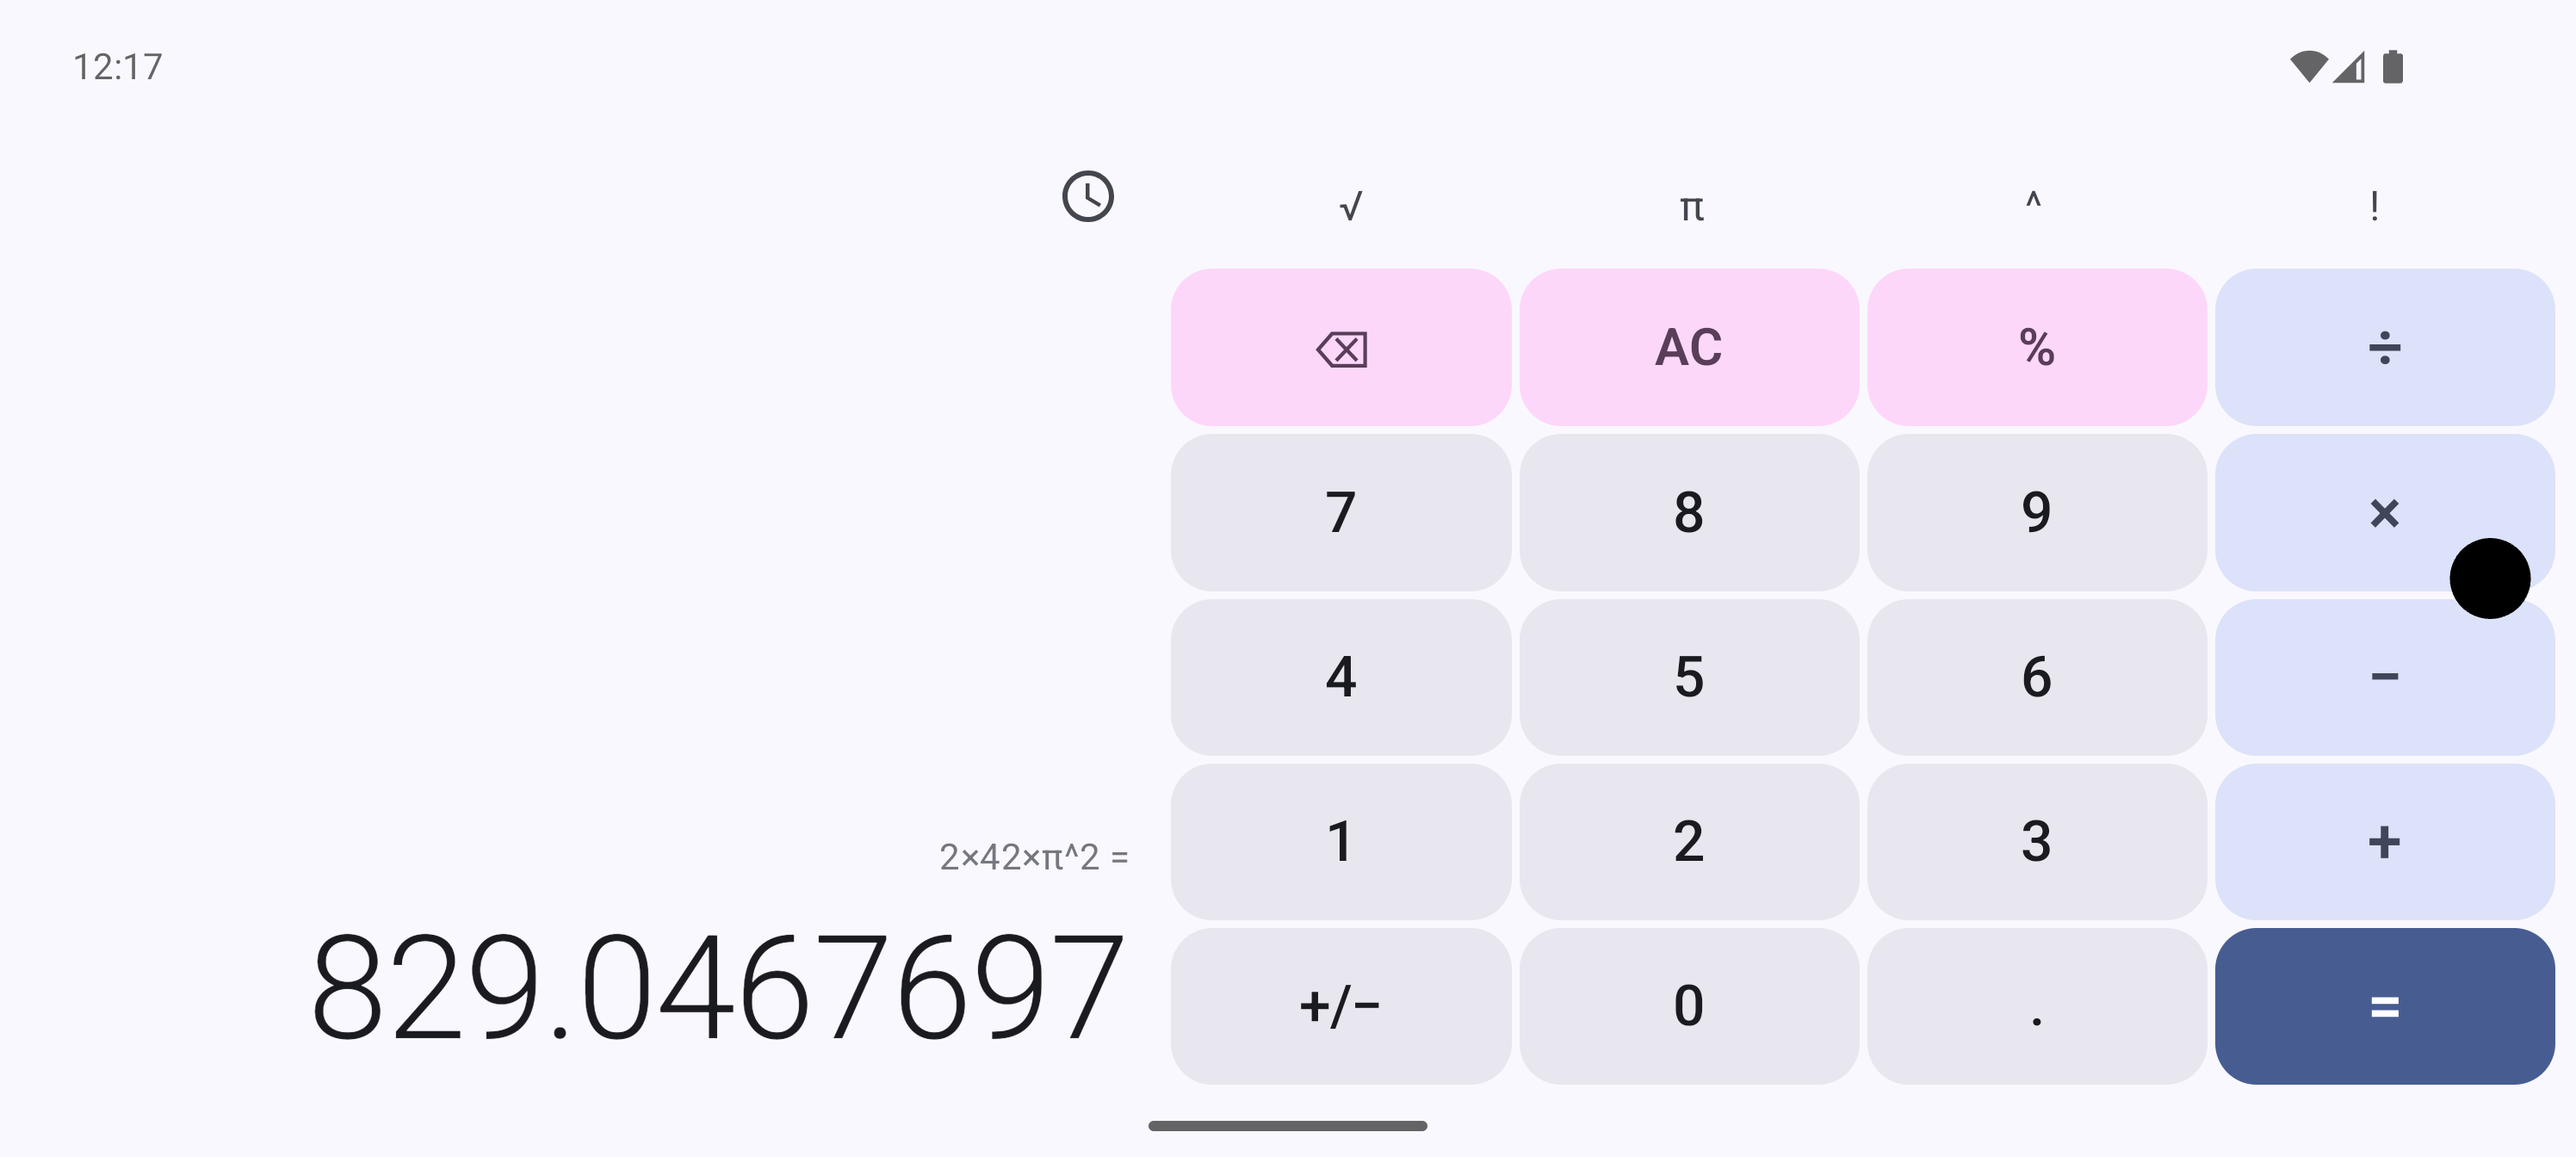
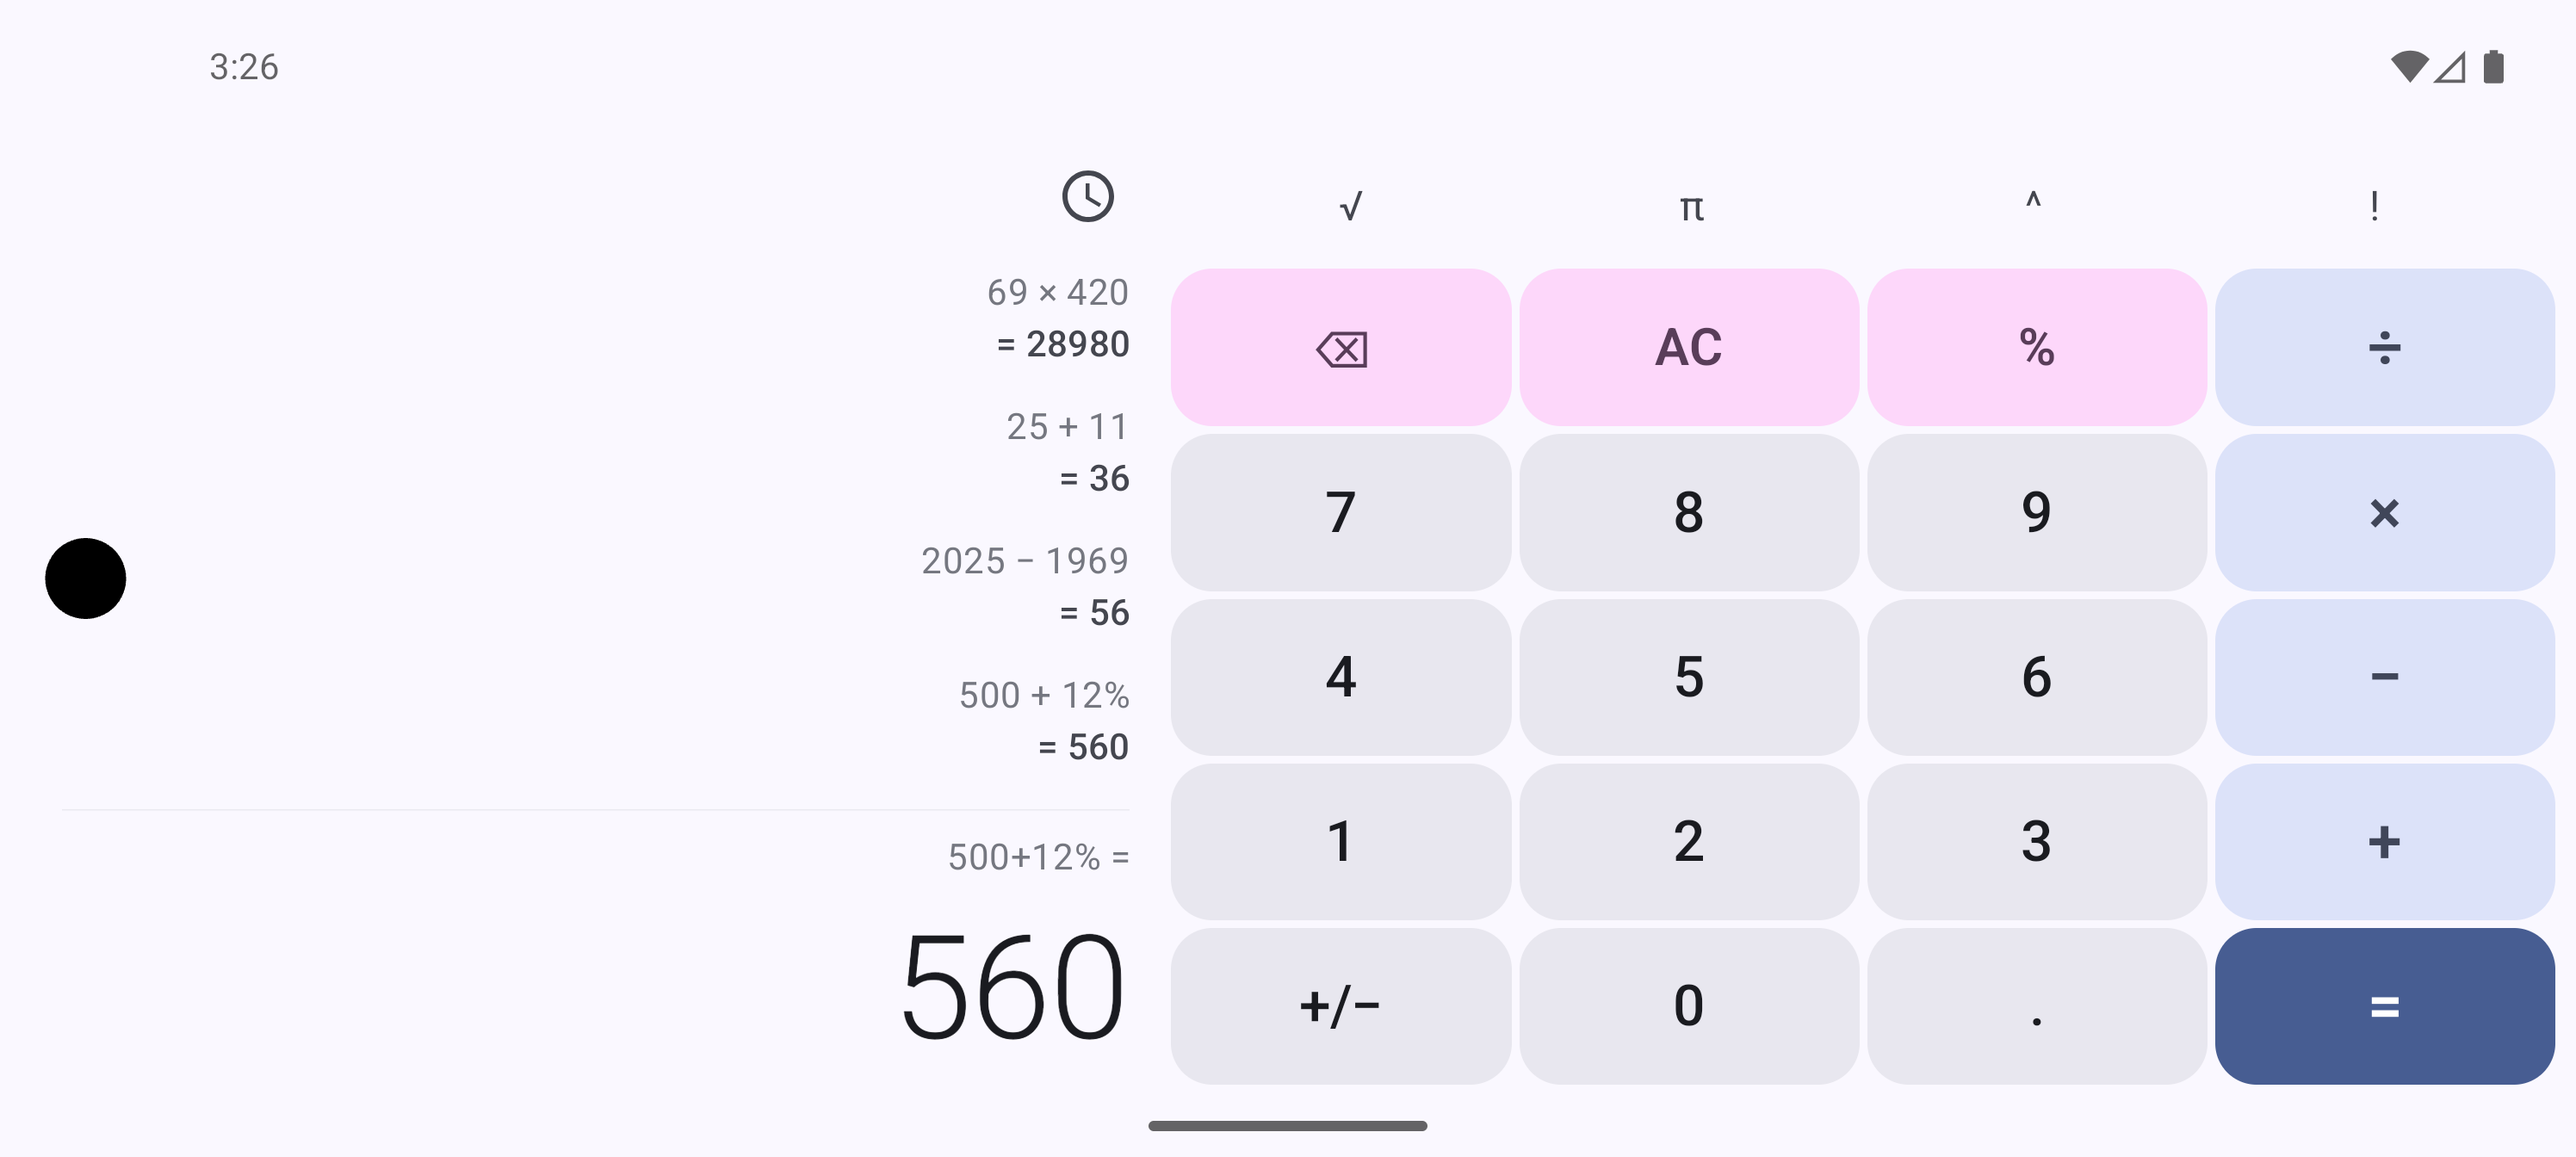
Feature/foldable inline history (#23)
* Add inline calculation history on foldable devices

Show recent calculations in the empty display area above the expression
on foldable/wide-screen devices. Entries are scrollable, tappable to
reload, and separated from the current expression by a subtle divider.

* Fix camera cutout overlap in landscape by using safeDrawingPadding

Replace systemBarsPadding with safeDrawingPadding to account for display
cutouts (punch-hole cameras) that overlap buttons in landscape mode.

* Update foldable and landscape screenshots

diff --git a/app/src/main/java/com/vagujhelyigergely/calculatorm3/CalculatorScreen.kt b/app/src/main/java/com/vagujhelyigergely/calculatorm3/CalculatorScreen.kt
@@ -9,6 +9,9 @@ import androidx.compose.foundation.interaction.collectIsPressedAsState
 import androidx.compose.foundation.layout.*
 import androidx.compose.foundation.lazy.LazyColumn
 import androidx.compose.foundation.lazy.items
+import androidx.compose.foundation.lazy.rememberLazyListState
+import androidx.compose.foundation.rememberScrollState
+import androidx.compose.foundation.verticalScroll
 import androidx.compose.foundation.shape.CircleShape
 import androidx.compose.foundation.shape.RoundedCornerShape
 import androidx.compose.foundation.gestures.detectTapGestures
@@ -144,7 +147,7 @@ private fun PortraitLayout(
     Column(
         modifier = Modifier
             .fillMaxSize()
-            .systemBarsPadding()
+            .safeDrawingPadding()
     ) {
         // Top bar with history button
         Row(
@@ -163,6 +166,10 @@ private fun PortraitLayout(
         }
 
         // Display area
+        val configuration = LocalConfiguration.current
+        val aspectRatio = configuration.screenHeightDp.toFloat() / configuration.screenWidthDp.toFloat()
+        val showInlineHistory = aspectRatio < 1.6f && viewModel.historyList.isNotEmpty()
+
         DisplaySection(
             expression = viewModel.expression,
             displayExpression = viewModel.displayExpression,
@@ -170,6 +177,8 @@ private fun PortraitLayout(
             onCursorChange = { viewModel.moveCursorTo(it) },
             result = viewModel.result,
             history = viewModel.history,
+            inlineHistoryList = if (showInlineHistory) viewModel.historyList else emptyList(),
+            onHistoryEntryClick = { entry -> viewModel.loadHistoryEntry(entry) },
             modifier = Modifier
                 .weight(1f)
                 .fillMaxWidth()
@@ -210,7 +219,7 @@ private fun LandscapeLayout(
     Row(
         modifier = Modifier
             .fillMaxSize()
-            .systemBarsPadding()
+            .safeDrawingPadding()
     ) {
         // Left side: display
         Column(
@@ -239,6 +248,8 @@ private fun LandscapeLayout(
                 onCursorChange = { viewModel.moveCursorTo(it) },
                 result = viewModel.result,
                 history = viewModel.history,
+                inlineHistoryList = if (viewModel.historyList.isNotEmpty()) viewModel.historyList else emptyList(),
+                onHistoryEntryClick = { entry -> viewModel.loadHistoryEntry(entry) },
                 modifier = Modifier
                     .weight(1f)
                     .fillMaxWidth()
@@ -349,6 +360,8 @@ fun DisplaySection(
     onCursorChange: (Int) -> Unit,
     result: String,
     history: String,
+    inlineHistoryList: List<HistoryEntry> = emptyList(),
+    onHistoryEntryClick: (HistoryEntry) -> Unit = {},
     modifier: Modifier = Modifier
 ) {
     val colorScheme = MaterialTheme.colorScheme
@@ -368,7 +381,55 @@ fun DisplaySection(
             verticalArrangement = Arrangement.Bottom,
             horizontalAlignment = Alignment.End
         ) {
-            // History
+            // Inline history for foldable devices with extra vertical space
+            if (inlineHistoryList.isNotEmpty()) {
+                val scrollState = rememberScrollState()
+                // Auto-scroll to bottom when history changes
+                LaunchedEffect(inlineHistoryList.size) {
+                    scrollState.animateScrollTo(scrollState.maxValue)
+                }
+                Column(
+                    modifier = Modifier
+                        .weight(1f, fill = false)
+                        .fillMaxWidth()
+                        .verticalScroll(scrollState),
+                    horizontalAlignment = Alignment.End
+                ) {
+                    inlineHistoryList.asReversed().forEach { entry ->
+                        Column(
+                            modifier = Modifier
+                                .fillMaxWidth()
+                                .clickable { onHistoryEntryClick(entry) }
+                                .padding(vertical = 6.dp),
+                            horizontalAlignment = Alignment.End
+                        ) {
+                            Text(
+                                text = formatExpression(entry.expression),
+                                style = MaterialTheme.typography.bodyMedium,
+                                color = colorScheme.outline,
+                                textAlign = TextAlign.End,
+                                modifier = Modifier.fillMaxWidth()
+                            )
+                            Text(
+                                text = "= ${entry.result}",
+                                style = MaterialTheme.typography.titleSmall,
+                                fontWeight = FontWeight.Medium,
+                                color = colorScheme.onSurfaceVariant,
+                                textAlign = TextAlign.End,
+                                modifier = Modifier.fillMaxWidth()
+                            )
+                        }
+                    }
+                }
+
+                HorizontalDivider(
+                    thickness = 0.5.dp,
+                    color = colorScheme.outlineVariant.copy(alpha = 0.3f),
+                    modifier = Modifier.padding(vertical = 8.dp)
+                )
+            }
+
+            // History (last calculation label, e.g. "5+3 =")
             AnimatedVisibility(
                 visible = history.isNotEmpty(),
                 enter = fadeIn() + slideInVertically { -it / 2 },
